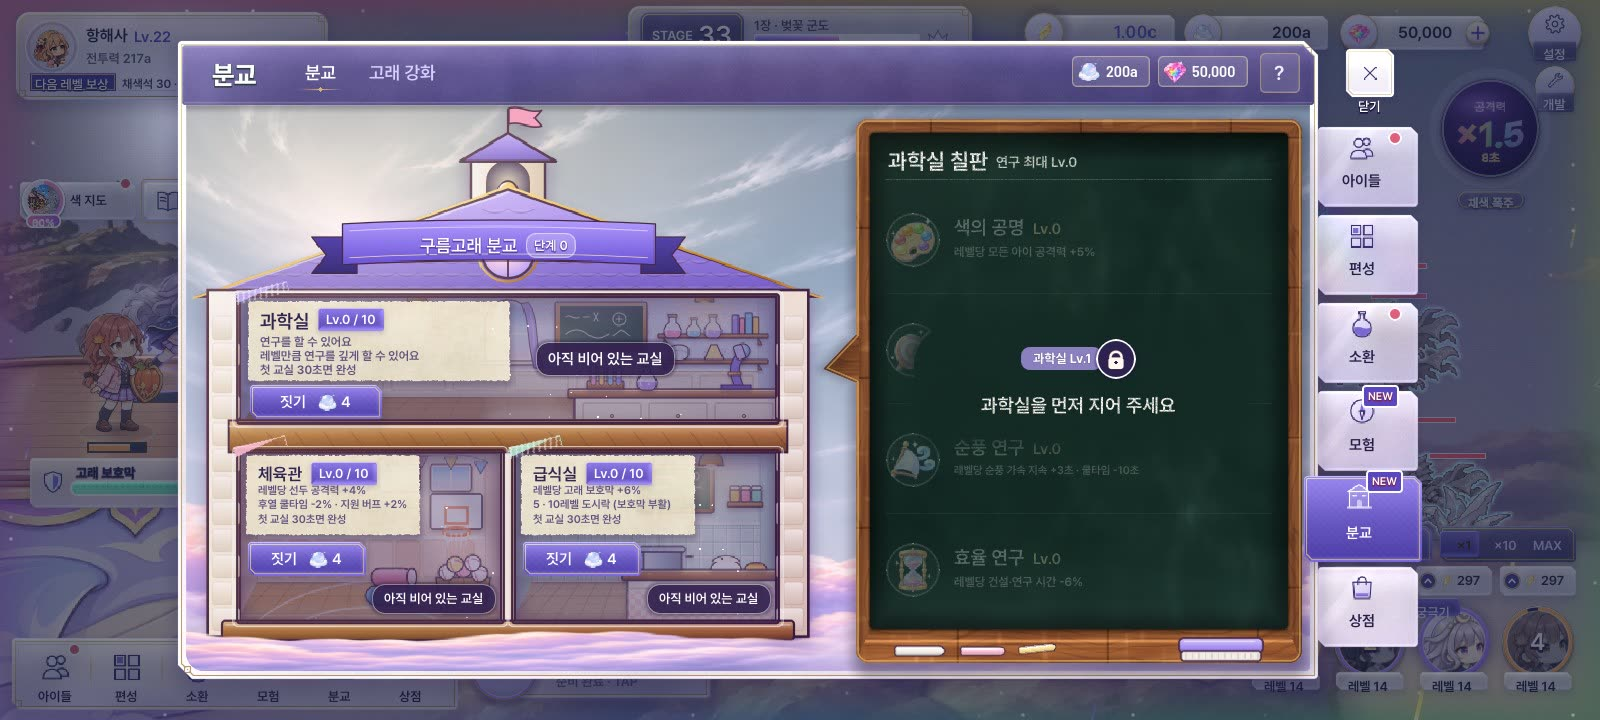
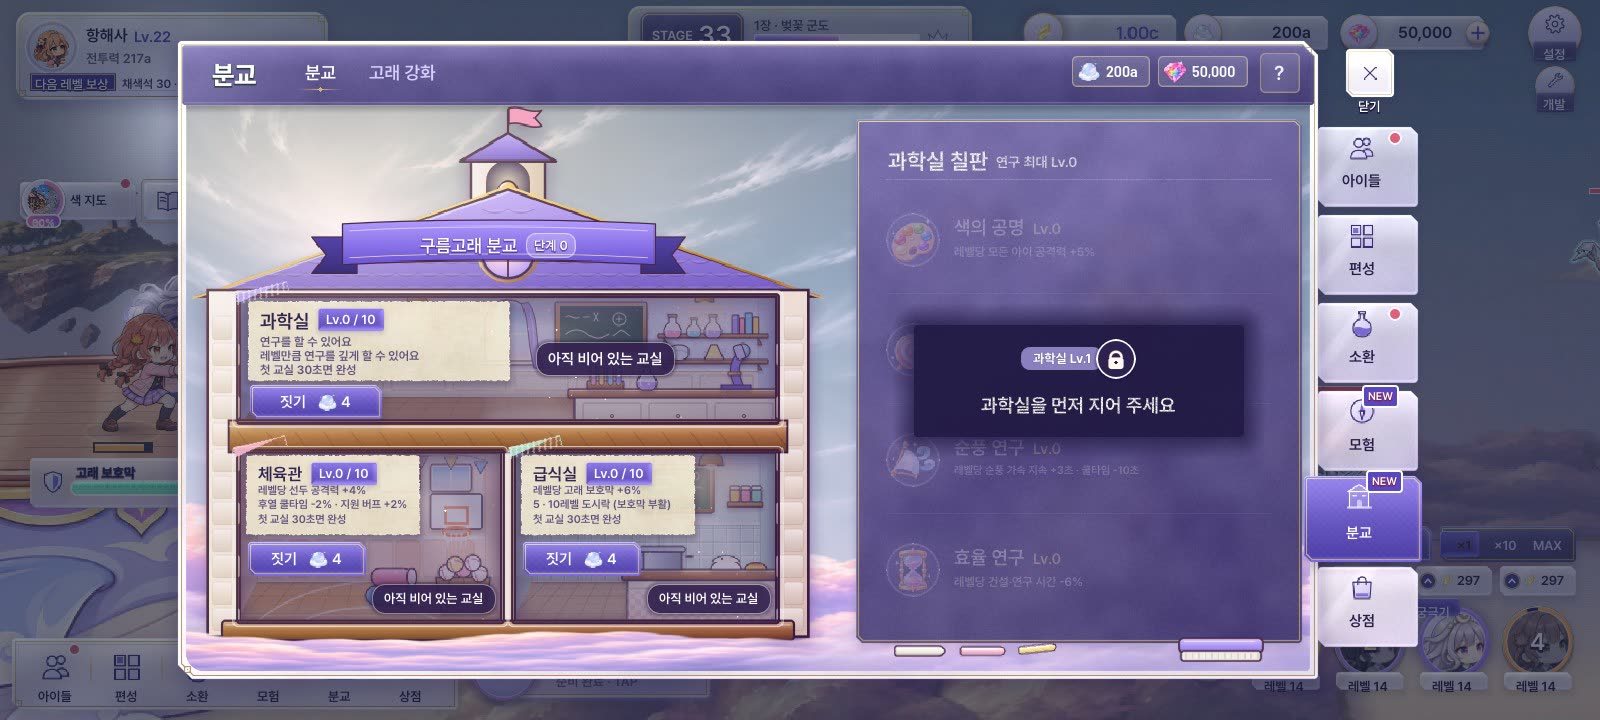
A2 batches 7,8

diff --git a/mockups/tone_a2_apply/index.html b/mockups/tone_a2_apply/index.html
@@ -56,6 +56,14 @@ ul{margin:0;padding-left:20px}li{margin:4px 0}
 <li><b>분교 · 고래</b>: 공용 키트(UiSoft · AtelierKit)로 버튼 · 꼬리표가 A2. 칠판 · 해부도 그림은 그대로.</li>
 </ul></div>
 <section class="row" data-w="1280"><h3>묶음 6 · 모험 허브 · 1280×720</h3><div class="g2"><figure><img loading="lazy" src="img/before2_adv_hub_1280x720.jpg" alt="지금 (적용 전)"><figcaption>지금 (적용 전)</figcaption></figure><figure><img loading="lazy" src="img/after2_adv_hub_1280x720.jpg" alt="A2 적용 후"><figcaption>A2 적용 후</figcaption></figure></div></section><section class="row" data-w="1280"><h3>묶음 6 · 원소 구름섬 · 1280×720</h3><div class="g2"><figure><img loading="lazy" src="img/before2_adv_element_1280x720.jpg" alt="지금 (적용 전)"><figcaption>지금 (적용 전)</figcaption></figure><figure><img loading="lazy" src="img/after2_adv_element_1280x720.jpg" alt="A2 적용 후"><figcaption>A2 적용 후</figcaption></figure></div></section><section class="row" data-w="1280"><h3>묶음 6 · 항해사 등급전 · 1280×720</h3><div class="g2"><figure><img loading="lazy" src="img/before2_adv_rank_1280x720.jpg" alt="지금 (적용 전)"><figcaption>지금 (적용 전)</figcaption></figure><figure><img loading="lazy" src="img/after2_adv_rank_1280x720.jpg" alt="A2 적용 후"><figcaption>A2 적용 후</figcaption></figure></div></section><section class="row" data-w="1280"><h3>묶음 6 · 탐험 파견 · 1280×720</h3><div class="g2"><figure><img loading="lazy" src="img/before2_expedition_1280x720.jpg" alt="지금 (적용 전)"><figcaption>지금 (적용 전)</figcaption></figure><figure><img loading="lazy" src="img/after2_expedition_1280x720.jpg" alt="A2 적용 후"><figcaption>A2 적용 후</figcaption></figure></div></section><section class="row" data-w="1280"><h3>묶음 7 · 분교 · 1280×720</h3><div class="g2"><figure><img loading="lazy" src="img/before2_school_1280x720.jpg" alt="지금 (적용 전)"><figcaption>지금 (적용 전)</figcaption></figure><figure><img loading="lazy" src="img/after2_school_1280x720.jpg" alt="A2 적용 후"><figcaption>A2 적용 후</figcaption></figure></div></section><section class="row" data-w="1280"><h3>묶음 7 · 고래 강화 · 1280×720</h3><div class="g2"><figure><img loading="lazy" src="img/before2_whale_1280x720.jpg" alt="지금 (적용 전)"><figcaption>지금 (적용 전)</figcaption></figure><figure><img loading="lazy" src="img/after2_whale_1280x720.jpg" alt="A2 적용 후"><figcaption>A2 적용 후</figcaption></figure></div></section><section class="row" data-w="1600"><h3>묶음 6 · 모험 허브 · 1600×720</h3><div class="g2"><figure><img loading="lazy" src="img/before2_adv_hub_1600x720.jpg" alt="지금 (적용 전)"><figcaption>지금 (적용 전)</figcaption></figure><figure><img loading="lazy" src="img/after2_adv_hub_1600x720.jpg" alt="A2 적용 후"><figcaption>A2 적용 후</figcaption></figure></div></section><section class="row" data-w="1600"><h3>묶음 6 · 원소 구름섬 · 1600×720</h3><div class="g2"><figure><img loading="lazy" src="img/before2_adv_element_1600x720.jpg" alt="지금 (적용 전)"><figcaption>지금 (적용 전)</figcaption></figure><figure><img loading="lazy" src="img/after2_adv_element_1600x720.jpg" alt="A2 적용 후"><figcaption>A2 적용 후</figcaption></figure></div></section><section class="row" data-w="1600"><h3>묶음 6 · 항해사 등급전 · 1600×720</h3><div class="g2"><figure><img loading="lazy" src="img/before2_adv_rank_1600x720.jpg" alt="지금 (적용 전)"><figcaption>지금 (적용 전)</figcaption></figure><figure><img loading="lazy" src="img/after2_adv_rank_1600x720.jpg" alt="A2 적용 후"><figcaption>A2 적용 후</figcaption></figure></div></section><section class="row" data-w="1600"><h3>묶음 6 · 탐험 파견 · 1600×720</h3><div class="g2"><figure><img loading="lazy" src="img/before2_expedition_1600x720.jpg" alt="지금 (적용 전)"><figcaption>지금 (적용 전)</figcaption></figure><figure><img loading="lazy" src="img/after2_expedition_1600x720.jpg" alt="A2 적용 후"><figcaption>A2 적용 후</figcaption></figure></div></section><section class="row" data-w="1600"><h3>묶음 7 · 분교 · 1600×720</h3><div class="g2"><figure><img loading="lazy" src="img/before2_school_1600x720.jpg" alt="지금 (적용 전)"><figcaption>지금 (적용 전)</figcaption></figure><figure><img loading="lazy" src="img/after2_school_1600x720.jpg" alt="A2 적용 후"><figcaption>A2 적용 후</figcaption></figure></div></section><section class="row" data-w="1600"><h3>묶음 7 · 고래 강화 · 1600×720</h3><div class="g2"><figure><img loading="lazy" src="img/before2_whale_1600x720.jpg" alt="지금 (적용 전)"><figcaption>지금 (적용 전)</figcaption></figure><figure><img loading="lazy" src="img/after2_whale_1600x720.jpg" alt="A2 적용 후"><figcaption>A2 적용 후</figcaption></figure></div></section>
+<h2>묶음 7 · 8 전 · 후</h2>
+<div class="box"><ul>
+<li><b>분교 칠판</b>: 호두나무 테 · 초록 판 → 연기 유리 + 금 머리카락 선, 잠김 얼룩 4px. 「짓기」는 키트 라벤더.</li>
+<li><b>색 지도 · 완성 카드</b>: 노란 4px 테 · 24px 모서리 → 가는 금선 · 4px, 분홍 리본 → 강조 라벤더.</li>
+<li><b>설정</b>: 초록 확인 → 강조 라벤더 + 금선, 선택 막대 키트 색, 탭 금 밑줄 1px, 모서리 4px. <b>보상 띠</b>: 반짝이 끔 · 알갱이 1/3.</li>
+<li><b>파견 「받기」 두 번</b>: 보상 창 1개 · 「이미 받은 보상이에요」 0 (EXPTAP PASS).</li>
+</ul></div>
+<section class="row" data-w="1280"><h3>묶음 7 · 분교 칠판 (연기 유리) · 1280×720</h3><div class="g2"><figure><img loading="lazy" src="img/before2_school_1280x720.jpg" alt="지금 (적용 전)"><figcaption>지금 (적용 전)</figcaption></figure><figure><img loading="lazy" src="img/after2_school_1280x720.jpg" alt="A2 적용 후"><figcaption>A2 적용 후</figcaption></figure></div></section><section class="row" data-w="1280"><h3>묶음 7 · 색 지도 · 1280×720</h3><div class="g2"><figure><img loading="lazy" src="img/before2_colormap_1280x720.jpg" alt="지금 (적용 전)"><figcaption>지금 (적용 전)</figcaption></figure><figure><img loading="lazy" src="img/after2_colormap_1280x720.jpg" alt="A2 적용 후"><figcaption>A2 적용 후</figcaption></figure></div></section><section class="row" data-w="1280"><h3>묶음 7 · 장소 완성 카드 · 1280×720</h3><div class="g2"><figure><img loading="lazy" src="img/before2_colormap_done_1280x720.jpg" alt="지금 (적용 전)"><figcaption>지금 (적용 전)</figcaption></figure><figure><img loading="lazy" src="img/after2_colormap_done_1280x720.jpg" alt="A2 적용 후"><figcaption>A2 적용 후</figcaption></figure></div></section><section class="row" data-w="1280"><h3>묶음 8 · 설정 · 1280×720</h3><div class="g2"><figure><img loading="lazy" src="img/before2_settings_1280x720.jpg" alt="지금 (적용 전)"><figcaption>지금 (적용 전)</figcaption></figure><figure><img loading="lazy" src="img/after2_settings_1280x720.jpg" alt="A2 적용 후"><figcaption>A2 적용 후</figcaption></figure></div></section><section class="row" data-w="1280"><h3>묶음 8 · 이야기 · 1280×720</h3><div class="g2"><figure><img loading="lazy" src="img/before2_story_1280x720.jpg" alt="지금 (적용 전)"><figcaption>지금 (적용 전)</figcaption></figure><figure><img loading="lazy" src="img/after2_story_1280x720.jpg" alt="A2 적용 후"><figcaption>A2 적용 후</figcaption></figure></div></section><section class="row" data-w="1280"><h3>묶음 8 · 알림 (막힌 일) · 1280×720</h3><div class="g2"><figure><img loading="lazy" src="img/before2_alert_fail_1280x720.jpg" alt="지금 (적용 전)"><figcaption>지금 (적용 전)</figcaption></figure><figure><img loading="lazy" src="img/after2_alert_fail_1280x720.jpg" alt="A2 적용 후"><figcaption>A2 적용 후</figcaption></figure></div></section><section class="row" data-w="1280"><h3>묶음 8 · 알림 (해낸 일) · 1280×720</h3><div class="g2"><figure><img loading="lazy" src="img/before2_alert_ok_1280x720.jpg" alt="지금 (적용 전)"><figcaption>지금 (적용 전)</figcaption></figure><figure><img loading="lazy" src="img/after2_alert_ok_1280x720.jpg" alt="A2 적용 후"><figcaption>A2 적용 후</figcaption></figure></div></section><section class="row" data-w="1600"><h3>묶음 7 · 분교 칠판 (연기 유리) · 1600×720</h3><div class="g2"><figure><img loading="lazy" src="img/before2_school_1600x720.jpg" alt="지금 (적용 전)"><figcaption>지금 (적용 전)</figcaption></figure><figure><img loading="lazy" src="img/after2_school_1600x720.jpg" alt="A2 적용 후"><figcaption>A2 적용 후</figcaption></figure></div></section><section class="row" data-w="1600"><h3>묶음 7 · 색 지도 · 1600×720</h3><div class="g2"><figure><img loading="lazy" src="img/before2_colormap_1600x720.jpg" alt="지금 (적용 전)"><figcaption>지금 (적용 전)</figcaption></figure><figure><img loading="lazy" src="img/after2_colormap_1600x720.jpg" alt="A2 적용 후"><figcaption>A2 적용 후</figcaption></figure></div></section><section class="row" data-w="1600"><h3>묶음 7 · 장소 완성 카드 · 1600×720</h3><div class="g2"><figure><img loading="lazy" src="img/before2_colormap_done_1600x720.jpg" alt="지금 (적용 전)"><figcaption>지금 (적용 전)</figcaption></figure><figure><img loading="lazy" src="img/after2_colormap_done_1600x720.jpg" alt="A2 적용 후"><figcaption>A2 적용 후</figcaption></figure></div></section><section class="row" data-w="1600"><h3>묶음 8 · 설정 · 1600×720</h3><div class="g2"><figure><img loading="lazy" src="img/before2_settings_1600x720.jpg" alt="지금 (적용 전)"><figcaption>지금 (적용 전)</figcaption></figure><figure><img loading="lazy" src="img/after2_settings_1600x720.jpg" alt="A2 적용 후"><figcaption>A2 적용 후</figcaption></figure></div></section><section class="row" data-w="1600"><h3>묶음 8 · 이야기 · 1600×720</h3><div class="g2"><figure><img loading="lazy" src="img/before2_story_1600x720.jpg" alt="지금 (적용 전)"><figcaption>지금 (적용 전)</figcaption></figure><figure><img loading="lazy" src="img/after2_story_1600x720.jpg" alt="A2 적용 후"><figcaption>A2 적용 후</figcaption></figure></div></section><section class="row" data-w="1600"><h3>묶음 8 · 알림 (막힌 일) · 1600×720</h3><div class="g2"><figure><img loading="lazy" src="img/before2_alert_fail_1600x720.jpg" alt="지금 (적용 전)"><figcaption>지금 (적용 전)</figcaption></figure><figure><img loading="lazy" src="img/after2_alert_fail_1600x720.jpg" alt="A2 적용 후"><figcaption>A2 적용 후</figcaption></figure></div></section><section class="row" data-w="1600"><h3>묶음 8 · 알림 (해낸 일) · 1600×720</h3><div class="g2"><figure><img loading="lazy" src="img/before2_alert_ok_1600x720.jpg" alt="지금 (적용 전)"><figcaption>지금 (적용 전)</figcaption></figure><figure><img loading="lazy" src="img/after2_alert_ok_1600x720.jpg" alt="A2 적용 후"><figcaption>A2 적용 후</figcaption></figure></div></section>
 <h2>영상 (1280, 같은 조작)</h2>
 <section class="row"><h3>전투 HUD — 단위 스위치 세 번 · 궁극기 카드</h3><div class="g2"><figure><video src="video/before_hud.mp4" muted loop playsinline controls preload="metadata"></video><figcaption>지금</figcaption></figure><figure><video src="video/after_hud.mp4" muted loop playsinline controls preload="metadata"></video><figcaption>A2</figcaption></figure></div></section>
 <section class="row"><h3>아이 상세 — 여는 순간 · 탭 전환 · 레벨 업 누름</h3><div class="g2"><figure><video src="video/before_detail.mp4" muted loop playsinline controls preload="metadata"></video><figcaption>지금</figcaption></figure><figure><video src="video/after_detail.mp4" muted loop playsinline controls preload="metadata"></video><figcaption>A2</figcaption></figure></div></section>
